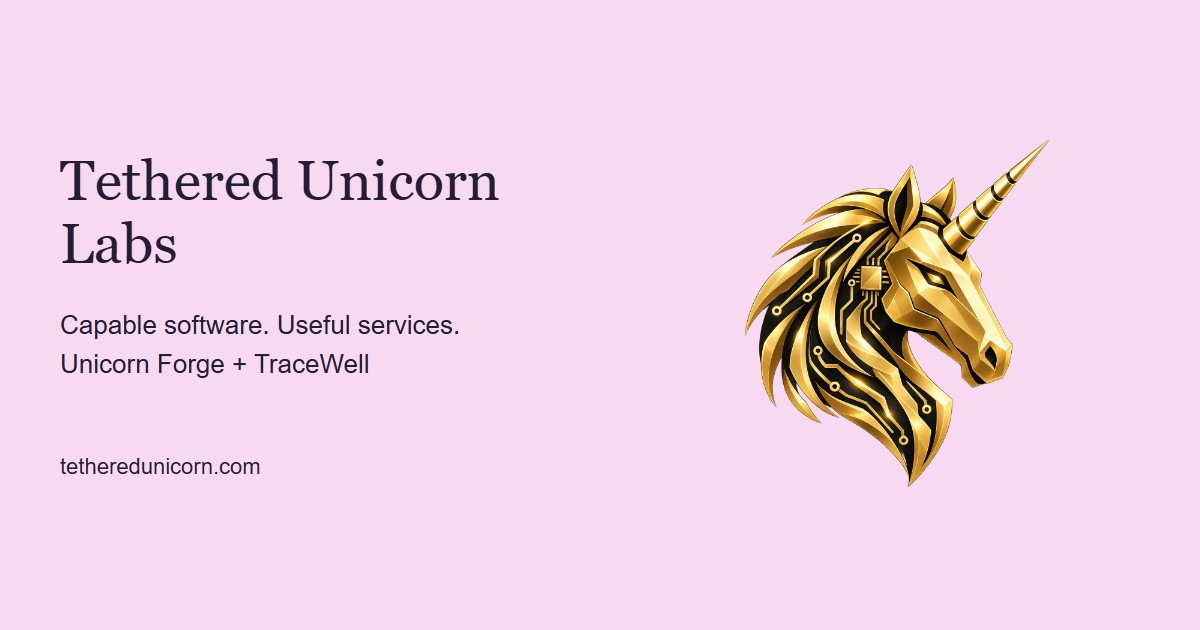
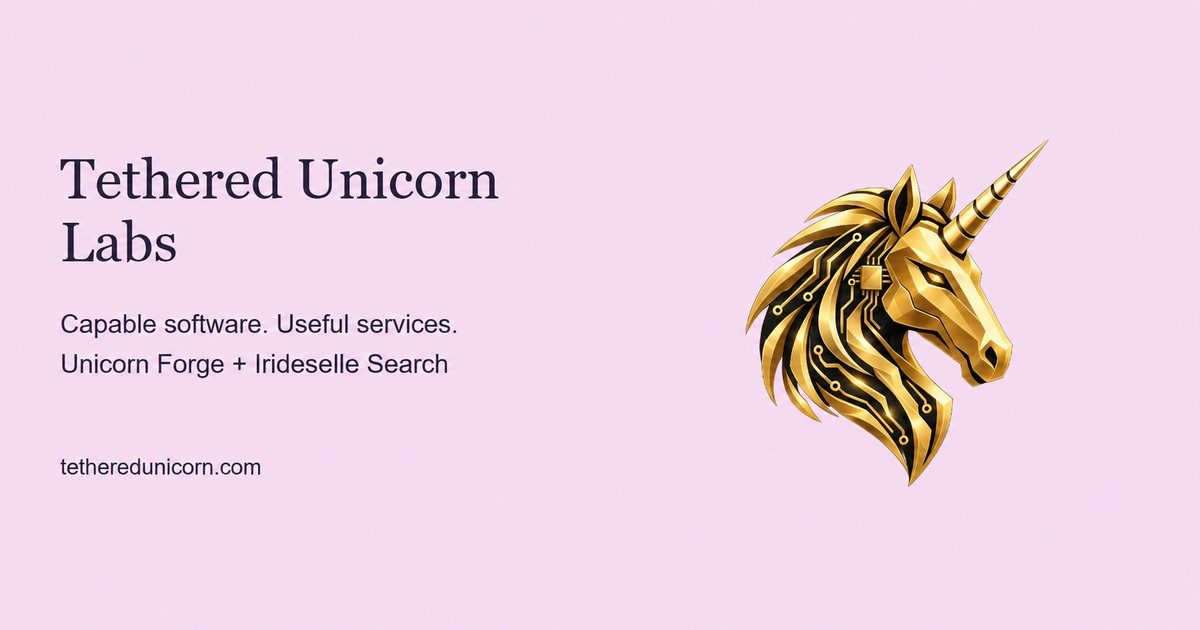
Rebrand research product as Irideselle Search

diff --git a/investors.html b/investors.html
@@ -4,14 +4,14 @@
     <meta charset="utf-8" />
     <meta name="viewport" content="width=device-width,initial-scale=1" />
     <meta name="theme-color" content="#100824" />
-    <meta name="description" content="Tethered Unicorn Labs investor overview: Unicorn Forge, TraceWell, and a software-first roadmap toward hosted AI services and SaaS subscriptions." />
+    <meta name="description" content="Tethered Unicorn Labs investor overview: Unicorn Forge, Irideselle Search, and a software-first roadmap toward hosted AI services and SaaS subscriptions." />
     <title>Tethered Unicorn Labs · Investor Overview</title>
     <link rel="icon" type="image/png" href="assets/favicon.png" />
     <link rel="stylesheet" href="investors.css" />
     <link rel="stylesheet" href="investors-unicrypt.css" />
   <link rel="canonical" href="https://tetheredunicorn.com/investors.html">
 <meta property="og:type" content="website"><meta property="og:site_name" content="Tethered Unicorn Labs">
-<meta property="og:title" content="Tethered Unicorn Labs · Investor Overview"><meta property="og:description" content="Tethered Unicorn Labs investor overview: Unicorn Forge, TraceWell, and a software-first roadmap toward hosted AI services and SaaS subscriptions.">
+<meta property="og:title" content="Tethered Unicorn Labs · Investor Overview"><meta property="og:description" content="Tethered Unicorn Labs investor overview: Unicorn Forge, Irideselle Search, and a software-first roadmap toward hosted AI services and SaaS subscriptions.">
 <meta property="og:url" content="https://tetheredunicorn.com/investors.html"><meta property="og:image" content="https://tetheredunicorn.com/assets/social-labs.jpg">
 <meta property="og:image:width" content="1200"><meta property="og:image:height" content="630"><meta property="og:image:alt" content="Tethered Unicorn Labs · Investor Overview">
 <meta name="twitter:card" content="summary_large_image"><link rel="stylesheet" href="accessibility.css">
@@ -30,7 +30,7 @@
         <div>
           <p class="eyebrow">AI APPLICATIONS. HOSTED SERVICES. MEASURABLE OUTCOMES.</p>
           <h1>A software suite built around work worth doing.</h1>
-          <p class="lede">Tethered Unicorn Labs is developing Unicorn Forge for AI-assisted work and automation, and TraceWell for conversational research and evidence review. Our commercial direction is SaaS: hosted applications operated by the company, with value delivered through useful workflows, ongoing improvements, and support.</p>
+          <p class="lede">Tethered Unicorn Labs is developing Unicorn Forge for AI-assisted work and automation, and Irideselle Search for conversational research and evidence review. Our commercial direction is SaaS: hosted applications operated by the company, with value delivered through useful workflows, ongoing improvements, and support.</p>
           <div class="actions">
             <a class="button" href="contact.html?topic=investor">Start a conversation</a>
             <button class="button ghost" type="button" onclick="window.print()">Save overview as PDF</button>
@@ -49,7 +49,7 @@
         <h2>Two software products. Complementary workflows.</h2>
         <div class="portfolio-grid">
           <article><span>SOFTWARE PLATFORM</span><h3>Unicorn Forge</h3><p>An AI workspace that coordinates models, agents, tools, and project context. It brings planning, execution, visible progress, and result verification into the same workflow.</p><a href="forge.html">Explore Unicorn Forge →</a></article>
-          <article><span>RESEARCH APPLICATION</span><h3>TraceWell</h3><p>A conversational OSINT workspace for refining research questions, retrieving public sources, capturing evidence, and organizing reviewable case reports.</p><a href="index.html#tracewell">Explore TraceWell →</a></article>
+          <article><span>RESEARCH APPLICATION</span><h3>Irideselle Search</h3><p>A conversational OSINT workspace for refining research questions, retrieving public sources, capturing evidence, and organizing reviewable case reports.</p><a href="index.html#irideselle">Explore Irideselle Search →</a></article>
         </div>
       </section>
 
@@ -76,8 +76,8 @@
           <article><b>01</b><h3>AI workspace</h3><p>Forge brings model selection, project files, conversation context, and tools together so users can work across a task without repeatedly starting over.</p></article>
           <article><b>02</b><h3>Agentic execution</h3><p>Break a prompt into tasks, select appropriate models, call tools, show live commands and responses, and verify completion.</p></article>
           <article><b>03</b><h3>Personal capability layer</h3><p>Connect skills, MCP servers, calendars, Obsidian, development tools, browser control, and user-managed credentials.</p></article>
-          <article><b>04</b><h3>Conversational research</h3><p>TraceWell starts with available clues, uses follow-up questions to refine the inquiry, and helps users review public-source findings.</p></article>
-          <article><b>05</b><h3>Evidence and reporting</h3><p>TraceWell captures source material, timestamps, and references, then organizes approved findings into case folders and reports for human review.</p></article>
+          <article><b>04</b><h3>Conversational research</h3><p>Irideselle Search starts with available clues, uses follow-up questions to refine the inquiry, and helps users review public-source findings.</p></article>
+          <article><b>05</b><h3>Evidence and reporting</h3><p>Irideselle Search captures source material, timestamps, and references, then organizes approved findings into case folders and reports for human review.</p></article>
           <article><b>06</b><h3>Observable autonomy</h3><p>Expose agent activity, failures, reasoning artifacts, health, resource use, approvals, and human takeover instead of hiding them.</p></article>
         </div>
       </section>
@@ -98,7 +98,7 @@
       <section>
         <p class="eyebrow">VALIDATION ROADMAP</p>
         <div class="timeline">
-          <article class="active"><span>OCT–DEC 2026</span><h3>Prepare and validate</h3><p>Test Forge task completion and TraceWell research quality, onboarding, reliability, and which workflows create repeat use.</p></article>
+          <article class="active"><span>OCT–DEC 2026</span><h3>Prepare and validate</h3><p>Test Forge task completion and Irideselle Search research quality, onboarding, reliability, and which workflows create repeat use.</p></article>
           <article><span>BEFORE PAID ONBOARDING</span><h3>Readiness review</h3><p>Harden hosted delivery, account onboarding, access boundaries, recovery, and support. Measure retention, task completion, and per-workflow operating cost.</p></article>
           <article><span>JAN–APR 2027 · PLANNED</span><h3>Commercial pilot</h3><p>Test subscription packaging for individuals and small teams, with measured service capacity, usage allowances, and support costs.</p></article>
         </div>
@@ -108,7 +108,7 @@
         <div><p class="eyebrow">BUSINESS MODEL HYPOTHESES</p><h2>Recurring revenue from useful software and dependable service.</h2></div>
         <div class="copy">
           <ul>
-            <li>Hosted subscriptions for Unicorn Forge and TraceWell, separately or as a suite</li>
+            <li>Hosted subscriptions for Unicorn Forge and Irideselle Search, separately or as a suite</li>
             <li>Usage-based tiers for research and agent workloads, subject to measured delivery costs</li>
             <li>Team plans, onboarding, support, and workflow configuration</li>
             <li>Optional deployment and integration services for organizations with specific requirements</li>
@@ -148,6 +148,6 @@
         <p>This overview describes an experimental pre-alpha product and forward-looking plans. It is not an offer to sell securities, financial advice, or a promise of future performance. No revenue, user, market-size, or performance figures are claimed here without supporting evidence.</p>
       </section>
     </main>
-    <footer><span>Tethered Unicorn Labs</span><span>Unicorn Forge · TraceWell</span><span>© 2026 The Unicorn</span><nav class="policy-links" aria-label="Website policies"><a href="privacy.html">Privacy</a><a href="terms.html">Website terms</a><a href="accessibility.html">Accessibility</a></nav></footer>
+    <footer><span>Tethered Unicorn Labs</span><span>Unicorn Forge · Irideselle Search</span><span>© 2026 The Unicorn</span><nav class="policy-links" aria-label="Website policies"><a href="privacy.html">Privacy</a><a href="terms.html">Website terms</a><a href="accessibility.html">Accessibility</a></nav></footer>
   </body>
 </html>

diff --git a/index.html b/index.html
@@ -4,7 +4,7 @@
     <meta charset="utf-8" />
     <meta name="viewport" content="width=device-width, initial-scale=1" />
     <meta name="theme-color" content="#f7d9f1" />
-    <meta name="description" content="Tethered Unicorn Labs is building Unicorn Forge and TraceWell: AI automation and evidence-based research software, with hosted services in development." />
+    <meta name="description" content="Tethered Unicorn Labs is building Unicorn Forge and Irideselle Search: AI automation and evidence-based research software, with hosted services in development." />
     <title>Tethered Unicorn Labs · Serious intelligence, a dash of magic</title>
     <link rel="icon" type="image/png" href="assets/favicon.png" />
     <link rel="stylesheet" href="labs.css" />
@@ -13,7 +13,7 @@
     <link rel="stylesheet" href="mobile.css" />
   <link rel="canonical" href="https://tetheredunicorn.com/">
 <meta property="og:type" content="website"><meta property="og:site_name" content="Tethered Unicorn Labs">
-<meta property="og:title" content="Tethered Unicorn Labs · Serious intelligence, a dash of magic"><meta property="og:description" content="Tethered Unicorn Labs is building Unicorn Forge and TraceWell: AI automation and evidence-based research software, with hosted services in development.">
+<meta property="og:title" content="Tethered Unicorn Labs · Serious intelligence, a dash of magic"><meta property="og:description" content="Tethered Unicorn Labs is building Unicorn Forge and Irideselle Search: AI automation and evidence-based research software, with hosted services in development.">
 <meta property="og:url" content="https://tetheredunicorn.com/"><meta property="og:image" content="https://tetheredunicorn.com/assets/social-labs.jpg">
 <meta property="og:image:width" content="1200"><meta property="og:image:height" content="630"><meta property="og:image:alt" content="Tethered Unicorn Labs · Serious intelligence, a dash of magic">
 <meta name="twitter:card" content="summary_large_image"><link rel="stylesheet" href="accessibility.css">
@@ -28,7 +28,7 @@
       <button class="menu-button" type="button" aria-expanded="false" aria-controls="site-nav">Menu</button>
       <nav id="site-nav" aria-label="Primary navigation">
         <a href="forge.html">Unicorn Forge</a>
-        <a href="#tracewell">TraceWell</a>
+        <a href="#irideselle">Irideselle Search</a>
         <a href="#principles">Principles</a>
         <a href="#company">Company</a>
         <a href="#investors">Investors</a>
@@ -45,7 +45,7 @@
         <div class="hero-copy">
           <p class="eyebrow"><span>AI SOFTWARE ·</span><span>HOSTED SERVICES ·</span><span>HUMAN DIRECTION</span></p>
           <h1>Serious<br />intelligence.<br /><em>With a dash of magic.</em></h1>
-          <p class="lede">Tethered Unicorn Labs builds software that helps people turn questions into research and ideas into completed work. Unicorn Forge brings AI agents, tools, and project context together. TraceWell turns public-source research into organized, reviewable evidence. Our next step is hosted software that makes those capabilities easier to access.</p>
+          <p class="lede">Tethered Unicorn Labs builds software that helps people turn questions into research and ideas into completed work. Unicorn Forge brings AI agents, tools, and project context together. Irideselle Search turns public-source research into organized, reviewable evidence. Our next step is hosted software that makes those capabilities easier to access.</p>
           <div class="actions">
             <a class="button" href="#forge">Explore the software suite</a>
             <a class="button secondary" href="contact.html">Start a conversation</a>
@@ -90,23 +90,23 @@
         </div>
       </section>
 
-      <section class="tracewell-feature" id="tracewell">
-        <div class="tracewell-copy">
+      <section class="irideselle-feature" id="irideselle">
+        <div class="irideselle-copy">
           <p class="section-number">03 / SOFTWARE SUITE · RESEARCH</p>
           <p class="product-label">INTRODUCING</p>
-          <h2>TraceWell</h2>
+          <h2>Irideselle Search</h2>
           <p class="lede">Start with what you know. Build a clearer picture.</p>
-          <p>A conversational workspace for open-source intelligence: research using publicly available information. TraceWell helps refine a question, gather sources, and organize findings into a case you can review.</p>
+          <p>A conversational workspace for open-source intelligence: research using publicly available information. Irideselle Search helps refine a question, gather sources, and organize findings into a case you can review.</p>
           <ul>
             <li>Natural-language queries and follow-up questions that sharpen the research</li>
             <li>Public-source search, page capture, and source review</li>
             <li>Organized case folders with reports and supporting evidence</li>
           </ul>
           <p class="product-stage">Early testing · Findings are research leads for human review.</p>
-          <div class="actions"><a class="button" href="https://tracewell.tetheredunicorn.com/">Open TraceWell</a><a class="button secondary" href="contact.html?topic=tracewell">Ask about early access</a></div>
+          <div class="actions"><a class="button" href="https://irideselle.tetheredunicorn.com/">Open Irideselle Search</a><a class="button secondary" href="contact.html?topic=irideselle">Ask about early access</a></div>
         </div>
-        <figure class="tracewell-brand">
-          <img src="assets/tracewell-logo.png" width="512" height="512" loading="lazy" alt="TraceWell pastel detective unicorn with a hat, monocle, and pipe" />
+        <figure class="irideselle-brand">
+          <img src="assets/irideselle-logo.png" width="512" height="512" loading="lazy" alt="Irideselle Search pastel detective unicorn with a hat, monocle, and pipe" />
           <figcaption>Better questions. Traceable sources. Clearer findings.</figcaption>
         </figure>
       </section>
@@ -128,7 +128,7 @@
         </div>
         <div class="company-copy">
           <p>Tethered Unicorn Labs is an early-stage software company developing AI applications for individuals and organizations. Our focus is useful automation, conversational research, and hosted services that reduce the work required to get value from AI.</p>
-          <p>Unicorn Forge and TraceWell lead our software suite. We are developing a SaaS offering operated by Tethered Unicorn Labs, with subscription packaging and service capacity still to be validated. <a href="unicrypt.html">UniCrypt</a> continues as a complementary hardware research project.</p>
+          <p>Unicorn Forge and Irideselle Search lead our software suite. We are developing a SaaS offering operated by Tethered Unicorn Labs, with subscription packaging and service capacity still to be validated. <a href="unicrypt.html">UniCrypt</a> continues as a complementary hardware research project.</p>
         </div>
       </section>
 
@@ -148,7 +148,7 @@
 
     <footer>
       <div class="footer-brand"><img width="1200" height="1200" decoding="async" src="assets/unicorn-logo.webp" alt="" /><span><strong>Tethered Unicorn Labs</strong><small>Capable software. Useful services. Practical magic.</small></span></div>
-      <div class="footer-links"><a href="forge.html">Unicorn Forge</a><a href="#tracewell">TraceWell</a><a href="contact.html">Contact</a><a href="partners.html">Sponsors &amp; affiliates</a><a href="#top">Back to top ↑</a></div>
+      <div class="footer-links"><a href="forge.html">Unicorn Forge</a><a href="#irideselle">Irideselle Search</a><a href="contact.html">Contact</a><a href="partners.html">Sponsors &amp; affiliates</a><a href="#top">Back to top ↑</a></div>
       <p class="legal">© <span id="year">2026</span> Tethered Unicorn Labs. Currently an early-stage project; company formation and trademark clearance are in progress.</p>
     <nav class="policy-links" aria-label="Website policies"><a href="privacy.html">Privacy</a><a href="terms.html">Website terms</a><a href="accessibility.html">Accessibility</a></nav></footer>
     <script src="site.js"></script>

diff --git a/forge.html b/forge.html
@@ -21,7 +21,7 @@
     <header class="site-header">
       <a class="brand" href="forge.html" aria-label="Unicorn Forge home"><img width="1200" height="1200" decoding="async" src="assets/unicorn-logo.webp" alt="" /><span><strong>UNICORN FORGE</strong><small>BY TETHERED UNICORN LABS</small></span></a>
       <button class="menu-button" type="button" aria-expanded="false" aria-controls="site-nav">Menu</button>
-      <nav id="site-nav" aria-label="Primary navigation"><a href="index.html">Labs</a><a href="index.html#tracewell">TraceWell</a><a href="#capabilities">Capabilities</a><a href="#control">Human control</a><a href="#testing">Field testing</a><a class="nav-cta" href="contact.html">Contact</a></nav>
+      <nav id="site-nav" aria-label="Primary navigation"><a href="index.html">Labs</a><a href="index.html#irideselle">Irideselle Search</a><a href="#capabilities">Capabilities</a><a href="#control">Human control</a><a href="#testing">Field testing</a><a class="nav-cta" href="contact.html">Contact</a></nav>
     </header>
 
     <main id="main" tabindex="-1">
@@ -65,7 +65,7 @@
       </section>
     </main>
 
-    <footer><div class="footer-brand"><img width="1200" height="1200" decoding="async" src="assets/unicorn-logo.webp" alt="" /><span><strong>Unicorn Forge</strong><small>Brought to you by Tethered Unicorn Labs.</small></span></div><div class="footer-links"><a href="index.html">Labs home</a><a href="index.html#tracewell">TraceWell</a><a href="contact.html">Contact</a><a href="#top">Back to top ↑</a></div><p class="legal">© <span id="year">2026</span> Tethered Unicorn Labs. Unicorn Forge is private pre-alpha software.</p><nav class="policy-links" aria-label="Website policies"><a href="privacy.html">Privacy</a><a href="terms.html">Website terms</a><a href="accessibility.html">Accessibility</a></nav></footer>
+    <footer><div class="footer-brand"><img width="1200" height="1200" decoding="async" src="assets/unicorn-logo.webp" alt="" /><span><strong>Unicorn Forge</strong><small>Brought to you by Tethered Unicorn Labs.</small></span></div><div class="footer-links"><a href="index.html">Labs home</a><a href="index.html#irideselle">Irideselle Search</a><a href="contact.html">Contact</a><a href="#top">Back to top ↑</a></div><p class="legal">© <span id="year">2026</span> Tethered Unicorn Labs. Unicorn Forge is private pre-alpha software.</p><nav class="policy-links" aria-label="Website policies"><a href="privacy.html">Privacy</a><a href="terms.html">Website terms</a><a href="accessibility.html">Accessibility</a></nav></footer>
     <script src="site.js"></script>
   </body>
 </html>

diff --git a/software-suite.css b/software-suite.css
@@ -1,10 +1,10 @@
-.tracewell-feature{display:grid;grid-template-columns:1.15fr .85fr;gap:64px;align-items:center}
-.tracewell-copy>p:not(.section-number):not(.product-label){color:var(--muted)}
-.tracewell-copy .product-label{margin-top:32px;color:#655076}
-.tracewell-copy li{margin:12px 0}
-.tracewell-brand{margin:0;padding:30px;border-radius:32px;background:linear-gradient(145deg,#e4f4ee,#eee5fa);text-align:center}
-.tracewell-brand img{width:100%;height:auto;max-width:360px;object-fit:contain}
-.tracewell-brand figcaption{margin-top:18px;font-size:.9rem;color:#51425f}
+.irideselle-feature{display:grid;grid-template-columns:1.15fr .85fr;gap:64px;align-items:center}
+.irideselle-copy>p:not(.section-number):not(.product-label){color:var(--muted)}
+.irideselle-copy .product-label{margin-top:32px;color:#655076}
+.irideselle-copy li{margin:12px 0}
+.irideselle-brand{margin:0;padding:30px;border-radius:32px;background:linear-gradient(145deg,#e4f4ee,#eee5fa);text-align:center}
+.irideselle-brand img{width:100%;height:auto;max-width:360px;object-fit:contain}
+.irideselle-brand figcaption{margin-top:18px;font-size:.9rem;color:#51425f}
 .product-stage{font-size:.85rem}
 .investors .inline-link{color:#6d255c;border-bottom-color:#6d255c}
-@media(max-width:900px){.tracewell-feature{grid-template-columns:1fr;gap:32px}.tracewell-brand{max-width:460px;width:100%}}
+@media(max-width:900px){.irideselle-feature{grid-template-columns:1fr;gap:32px}.irideselle-brand{max-width:460px;width:100%}}

diff --git a/contact.js b/contact.js
@@ -1,6 +1,6 @@
 const requestedTopic = new URLSearchParams(window.location.search).get('topic');
-const topicLabels = { pilot: '2027 software pilot', tracewell: 'TraceWell early access', 'field-testing': 'Forge field testing', investor: 'Investor conversation', sponsor: 'Sponsorship', affiliate: 'Affiliate partnership', technical: 'Technical collaboration', press: 'Press inquiry' };
-const subject = topicLabels[requestedTopic] || 'Tethered Unicorn Labs conversation';
+const topicLabels = { pilot: '2027 software pilot', irideselle: 'Irideselle Search early access', 'field-testing': 'Forge field testing', investor: 'Investor conversation', sponsor: 'Sponsorship', affiliate: 'Affiliate partnership', technical: 'Technical collaboration', press: 'Press inquiry' };
+const subject = topicLabels[requestedTopic === 'tracewell' ? 'irideselle' : requestedTopic] || 'Tethered Unicorn Labs conversation';
 document.querySelector('#contact-email').href = `mailto:tetheredunicorn@gmail.com?subject=${encodeURIComponent(subject)}`;
 document.querySelector('#contact-whatsapp').href = `https://wa.me/14079687358?text=${encodeURIComponent(`Hello, I'd like to talk about ${subject.toLowerCase()}.`)}`;
 

diff --git a/partners.html b/partners.html
@@ -50,7 +50,7 @@
         <h2>From “what if?” to something people can actually use.</h2>
         <div class="play-grid">
           <article><span>01</span><h3>Personalized software</h3><p>Purpose-built tools for an individual, team, or company—shaped around the way they actually work rather than a generic workflow.</p></article>
-          <article><span>02</span><h3>Hosted AI services</h3><p>Applications that combine capable models, useful workflows, clear feedback, and dependable delivery. Help us validate the service experience around Forge and TraceWell.</p></article>
+          <article><span>02</span><h3>Hosted AI services</h3><p>Applications that combine capable models, useful workflows, clear feedback, and dependable delivery. Help us validate the service experience around Forge and Irideselle Search.</p></article>
           <article><span>03</span><h3>Research and reporting</h3><p>Turn a public-source research question into an organized, reviewable report. Help define what useful evidence, clear sourcing, and a successful customer outcome look like.</p></article>
         </div>
       </section>

diff --git a/forge-edge/unavailable.html b/forge-edge/unavailable.html
@@ -21,7 +21,7 @@
       <div class="actions"><a class="button" href="/">Try Forge again</a><a class="button secondary" href="https://tetheredunicorn.com/">Explore the Lab</a></div>
       <p class="note">Still having trouble? <a href="https://tetheredunicorn.com/contact.html">Get in touch</a>.</p>
     </section>
-    <footer><span>Unicorn Forge · Tethered Unicorn Labs</span><a href="https://tetheredunicorn.com/#tracewell">Discover TraceWell</a></footer>
+    <footer><span>Unicorn Forge · Tethered Unicorn Labs</span><a href="https://tetheredunicorn.com/#irideselle">Discover Irideselle Search</a></footer>
   </main>
 </body>
 </html>

diff --git a/README.md b/README.md
@@ -13,7 +13,7 @@ Public company website for **Tethered Unicorn Labs**, a product lab making perso
 
 ## Boundaries
 
-The company positioning leads with Unicorn Forge and TraceWell, software capabilities, and planned hosted SaaS services. UniCrypt is a complementary hardware research project. Hosted subscriptions and service capacity remain under validation; the original funding scenarios need reconciliation with the SaaS operating budget. Public copy does not describe the owner's authentication method.
+The company positioning leads with Unicorn Forge and Irideselle Search, software capabilities, and planned hosted SaaS services. UniCrypt is a complementary hardware research project. Hosted subscriptions and service capacity remain under validation; the original funding scenarios need reconciliation with the SaaS operating budget. Public copy does not describe the owner's authentication method.
 
 This is a public marketing property. It must remain separate from:
 
